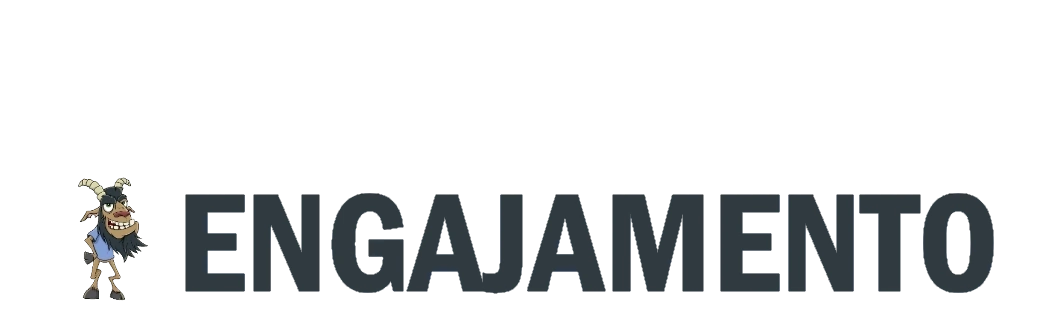
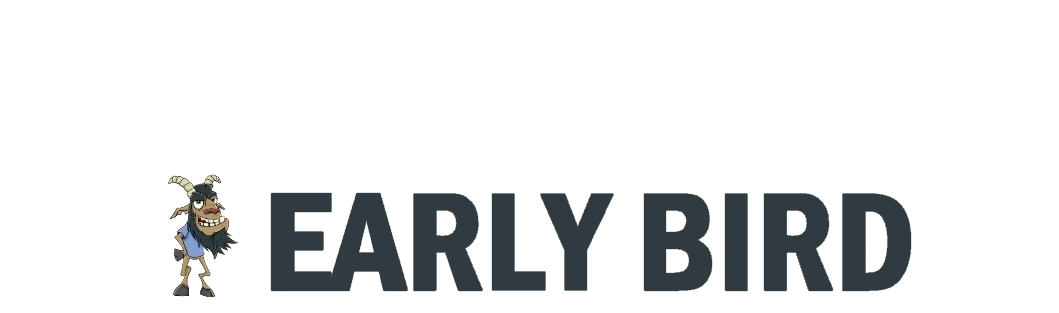
update copy

Changed region(s): [[0.0623, 0.5463, 0.966, 0.9776]]

diff --git a/pages/index.js b/pages/index.js
@@ -12,7 +12,7 @@ const data = [
          color: "#018f69"
       },
       link: {
-         url: "https://www.instagram.com/rafosociety/",
+         url: "https://discord.gg/Tr7bHA8jQj",
          text: "Esperando o que? Ofereça seu produto"
       }
    },
@@ -25,7 +25,7 @@ const data = [
          color: "#018f69"
       },
       link: {
-         url: "https://www.instagram.com/rafosociety/",
+         url: "https://discord.gg/Tr7bHA8jQj",
          text: "Não fique de fora, ofereça seu serviço"
       }
    },
@@ -38,7 +38,7 @@ const data = [
          color: "#018f69"
       },
       link: {
-         url: "https://www.instagram.com/rafosociety/",
+         url: "https://discord.gg/Tr7bHA8jQj",
          text: "Esperando o que? Ofereça seus serviços"
       }
    },
@@ -51,7 +51,7 @@ const data = [
          color: "#018f69"
       },
       link: {
-         url: "https://www.instagram.com/rafosociety/",
+         url: "https://discord.gg/Tr7bHA8jQj",
          text: "Conceda descontos também "
       }
    },
@@ -64,7 +64,7 @@ const data = [
          color: "#018f69"
       },
       link: {
-         url: "https://www.instagram.com/rafosociety/",
+         url: "https://discord.gg/Tr7bHA8jQj",
          text: "Venda mais também"
       }
    },
@@ -77,7 +77,7 @@ const data = [
          color: "#Fff"
       },
       link: {
-         url: "https://www.instagram.com/rafosociety/",
+         url: "https://discord.gg/Tr7bHA8jQj",
          text: "OFERECER"
       }
    }
@@ -170,7 +170,7 @@ function Home() {
                   <div class="flex flex-col items-center justify-center flex-1 bullet">
                      <div class="w-full md:w-[600px] -mt-16 md:-mt-32 lg:-mt-36" >
                         <img style={{margin:"70px 0px 0px 0px"}} src="images/proposito3.webp" alt="NFT Com Utilidade Real" />
-                        <p style={{fontWeight:"bold"}}>Qual é o valor que queremos agregar a sociedade com o projeto <i>"Rainforest Society NFT"</i>?</p>
+                        <p style={{fontWeight:"bold"}}>Qual é o valor que queremos agregar a sociedade com o projeto <a href="https://discord.gg/Tr7bHA8jQj" class=" text-green-200"> Rainforest Society NFT </a><a class="" href="https://discord.gg/Tr7bHA8jQj"><img src="images/logo.webp" alt="Rainforest Society NFT" style={{height:"16px", display:"inline", width:"16px", margin:"0px 0px 3px 0px"}}/></a> ?</p>
                         <ol class="bullet-list">
                            <li>&nbsp;</li>
                            <li>➡ <b>Ser social</b> e devolver algo para a sociedade, doando para instituições de caridade nas vendas através do club exclusivo de benefícios. Vide  <a href="https://discord.gg/Tr7bHA8jQj" class=" text-green-200"> Discord </a><a class="" href="https://discord.gg/Tr7bHA8jQj"><img src="svg/discord.svg" alt="Discord" style={{height:"16px", display:"inline", width:"16px", margin:"0px 0px 3px 0px"}}/></a></li>
@@ -224,18 +224,18 @@ function Home() {
                      
                      <div class="w-full md:w-[600px] -mt-16 md:-mt-32 lg:-mt-36" >
                         <img style={{margin:"70px 0px 0px 0px"}} src="images/engajamento.webp" alt="NFT Com Utilidade Real" />
-                        <p style={{fontWeight:"bold"}}>Como você pode se engajar na nossa comunidade?</p>
+                        <p style={{fontWeight:"bold"}}>Como você pode largar na frente na nossa comunidade?</p>
                         <ol class="bullet-list">
                            <li>&nbsp;</li>
-                           <li>1⃣ Fazendo sugestões no canal de <b>"sugestões"</b> do <a href="https://discord.gg/Tr7bHA8jQj" class=" text-green-200"> Discord </a><a class="" href="https://discord.gg/Tr7bHA8jQj"><img src="svg/discord.svg" alt="Discord" style={{height:"16px", display:"inline", width:"16px", margin:"0px 0px 3px 0px"}}/></a></li>
+                           <li>1⃣ Quem trouxer <b>apenas 2</b> amigos e nos seguir no  <a href="https://twitter.com/rafosociety" class=" text-green-200"> Twitter </a><a class="" href="https://twitter.com/rafosociety"><img src="svg/twitter.svg" alt="Twitter" style={{height:"16px", display:"inline", width:"16px", margin:"0px 0px 3px 0px"}}/></a> e  <a href="https://www.instagram.com/rafosociety/" class=" text-green-200"> Instagram </a><a class="" href="https://www.instagram.com/rafosociety/"><img src="svg/instagram.svg" alt="Instagram" style={{height:"16px", display:"inline", width:"16px", margin:"0px 0px 3px 0px"}}/></a>, entra para a <b>📑 white list</b> da prê-venda exclusiva.</li>
                            <li>&nbsp;</li>
                            <li>2⃣ Indicando empresas, estabelecimentos, lojas, prestadores de serviços e/ou incentivando os mesmos a cadastrarem seus serviços/produtos. Saiba como: <a href="https://discord.gg/Tr7bHA8jQj" class=" text-green-200"> Discord </a><a class="" href="https://discord.gg/Tr7bHA8jQj"><img src="svg/discord.svg" alt="Discord" style={{height:"16px", display:"inline", width:"16px", margin:"0px 0px 3px 0px"}}/></a></li>
                            <li>&nbsp;</li>
                            <li>3⃣ Usando o material disponível no canal de <b>"divulgue"</b> do <a href="https://discord.gg/Tr7bHA8jQj" class=" text-green-200"> Discord </a><a class="" href="https://discord.gg/Tr7bHA8jQj"><img src="svg/discord.svg" alt="Discord" style={{height:"16px", display:"inline", width:"16px", margin:"0px 0px 3px 0px"}}/></a> para promover nossos NFT's em suas redes sociais.</li>
                            <li>&nbsp;</li>
-                           <li>4⃣ Convidando amigos para a comunidade do discord. <b>"Como se faz"</b> disponível no canal de <b>"📫como-convidar"</b> do <a href="https://discord.gg/Tr7bHA8jQj" class=" text-green-200"> Discord </a><a class="" href="https://discord.gg/Tr7bHA8jQj"><img src="svg/discord.svg" alt="Discord" style={{height:"16px", display:"inline", width:"16px", margin:"0px 0px 3px 0px"}}/></a>.</li>
+                           <li>4⃣ Convidando amigos para a comunidade do discord. <b>"Como fazer"</b> disponível no canal de <b>"📫 como convidar"</b> do <a href="https://discord.gg/Tr7bHA8jQj" class=" text-green-200"> Discord </a><a class="" href="https://discord.gg/Tr7bHA8jQj"><img src="svg/discord.svg" alt="Discord" style={{height:"16px", display:"inline", width:"16px", margin:"0px 0px 3px 0px"}}/></a>.</li>
                            <li>&nbsp;</li>
-                           <li>5⃣ Divulgando links oficiais disponíveis no canal de <b>"links-oficiais"</b> do <a href="https://discord.gg/Tr7bHA8jQj" class=" text-green-200"> Discord </a><a class="" href="https://discord.gg/Tr7bHA8jQj"><img src="svg/discord.svg" alt="Discord" style={{height:"16px", display:"inline", width:"16px", margin:"0px 0px 3px 0px"}}/></a>.</li>
+                           <li>5⃣ Divulgando links oficiais disponíveis no canal de <b>"links oficiais"</b> do <a href="https://discord.gg/Tr7bHA8jQj" class=" text-green-200"> Discord </a><a class="" href="https://discord.gg/Tr7bHA8jQj"><img src="svg/discord.svg" alt="Discord" style={{height:"16px", display:"inline", width:"16px", margin:"0px 0px 3px 0px"}}/></a>.</li>
                            <li>&nbsp;</li>
                         </ol>
                      </div>
